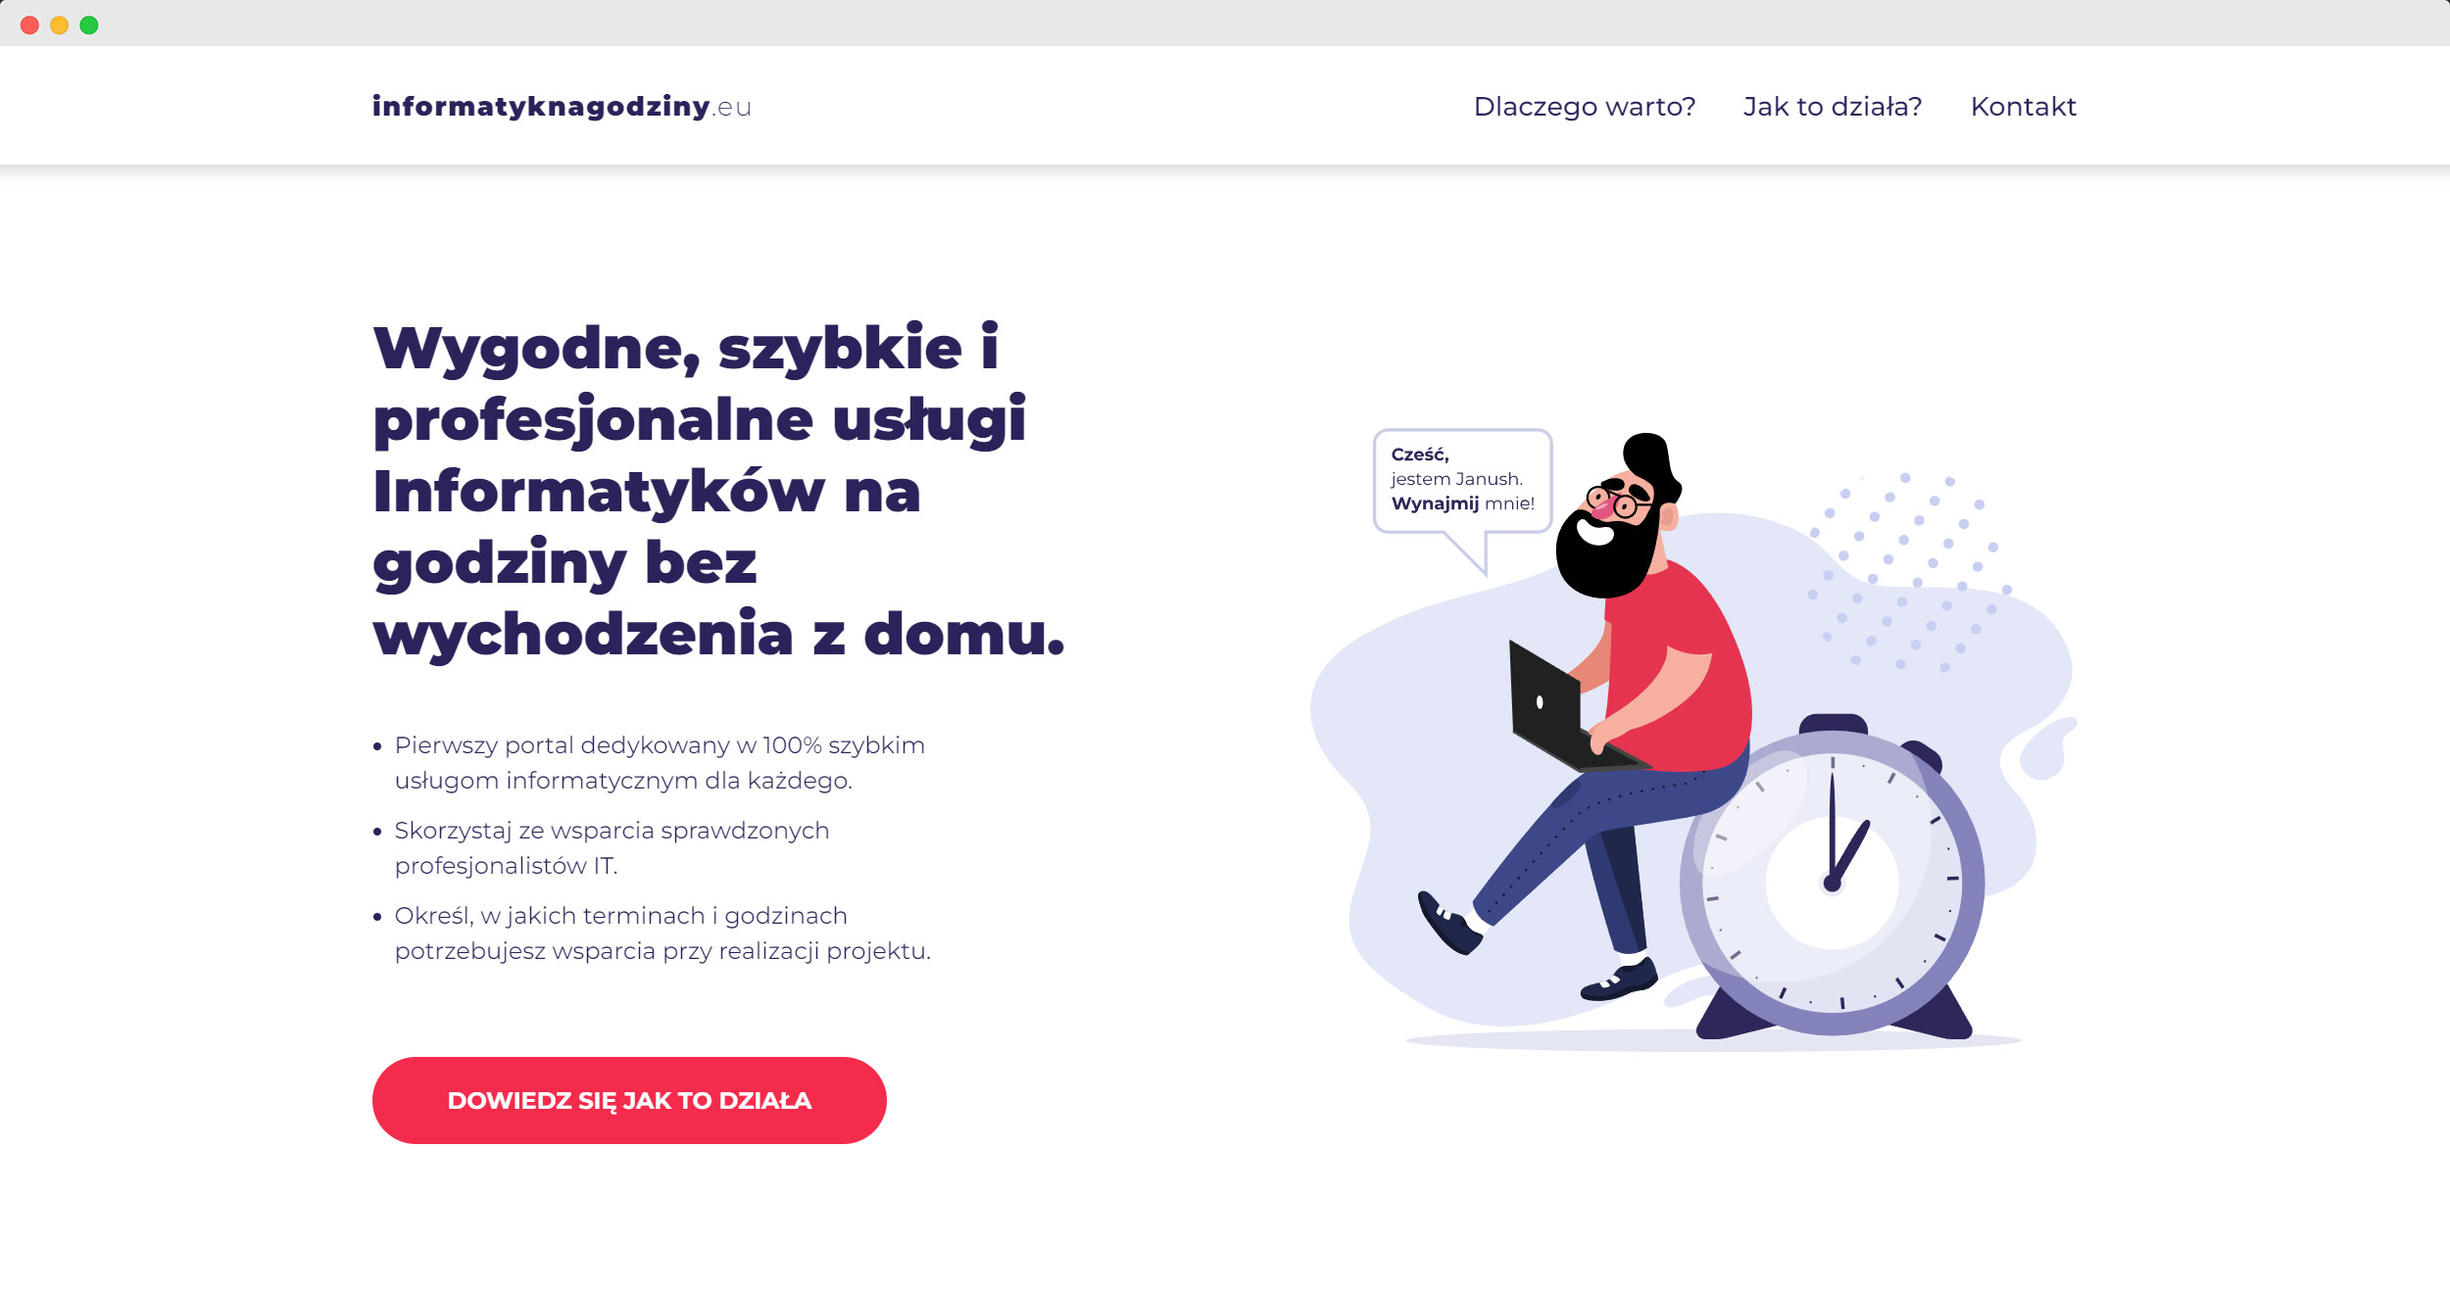
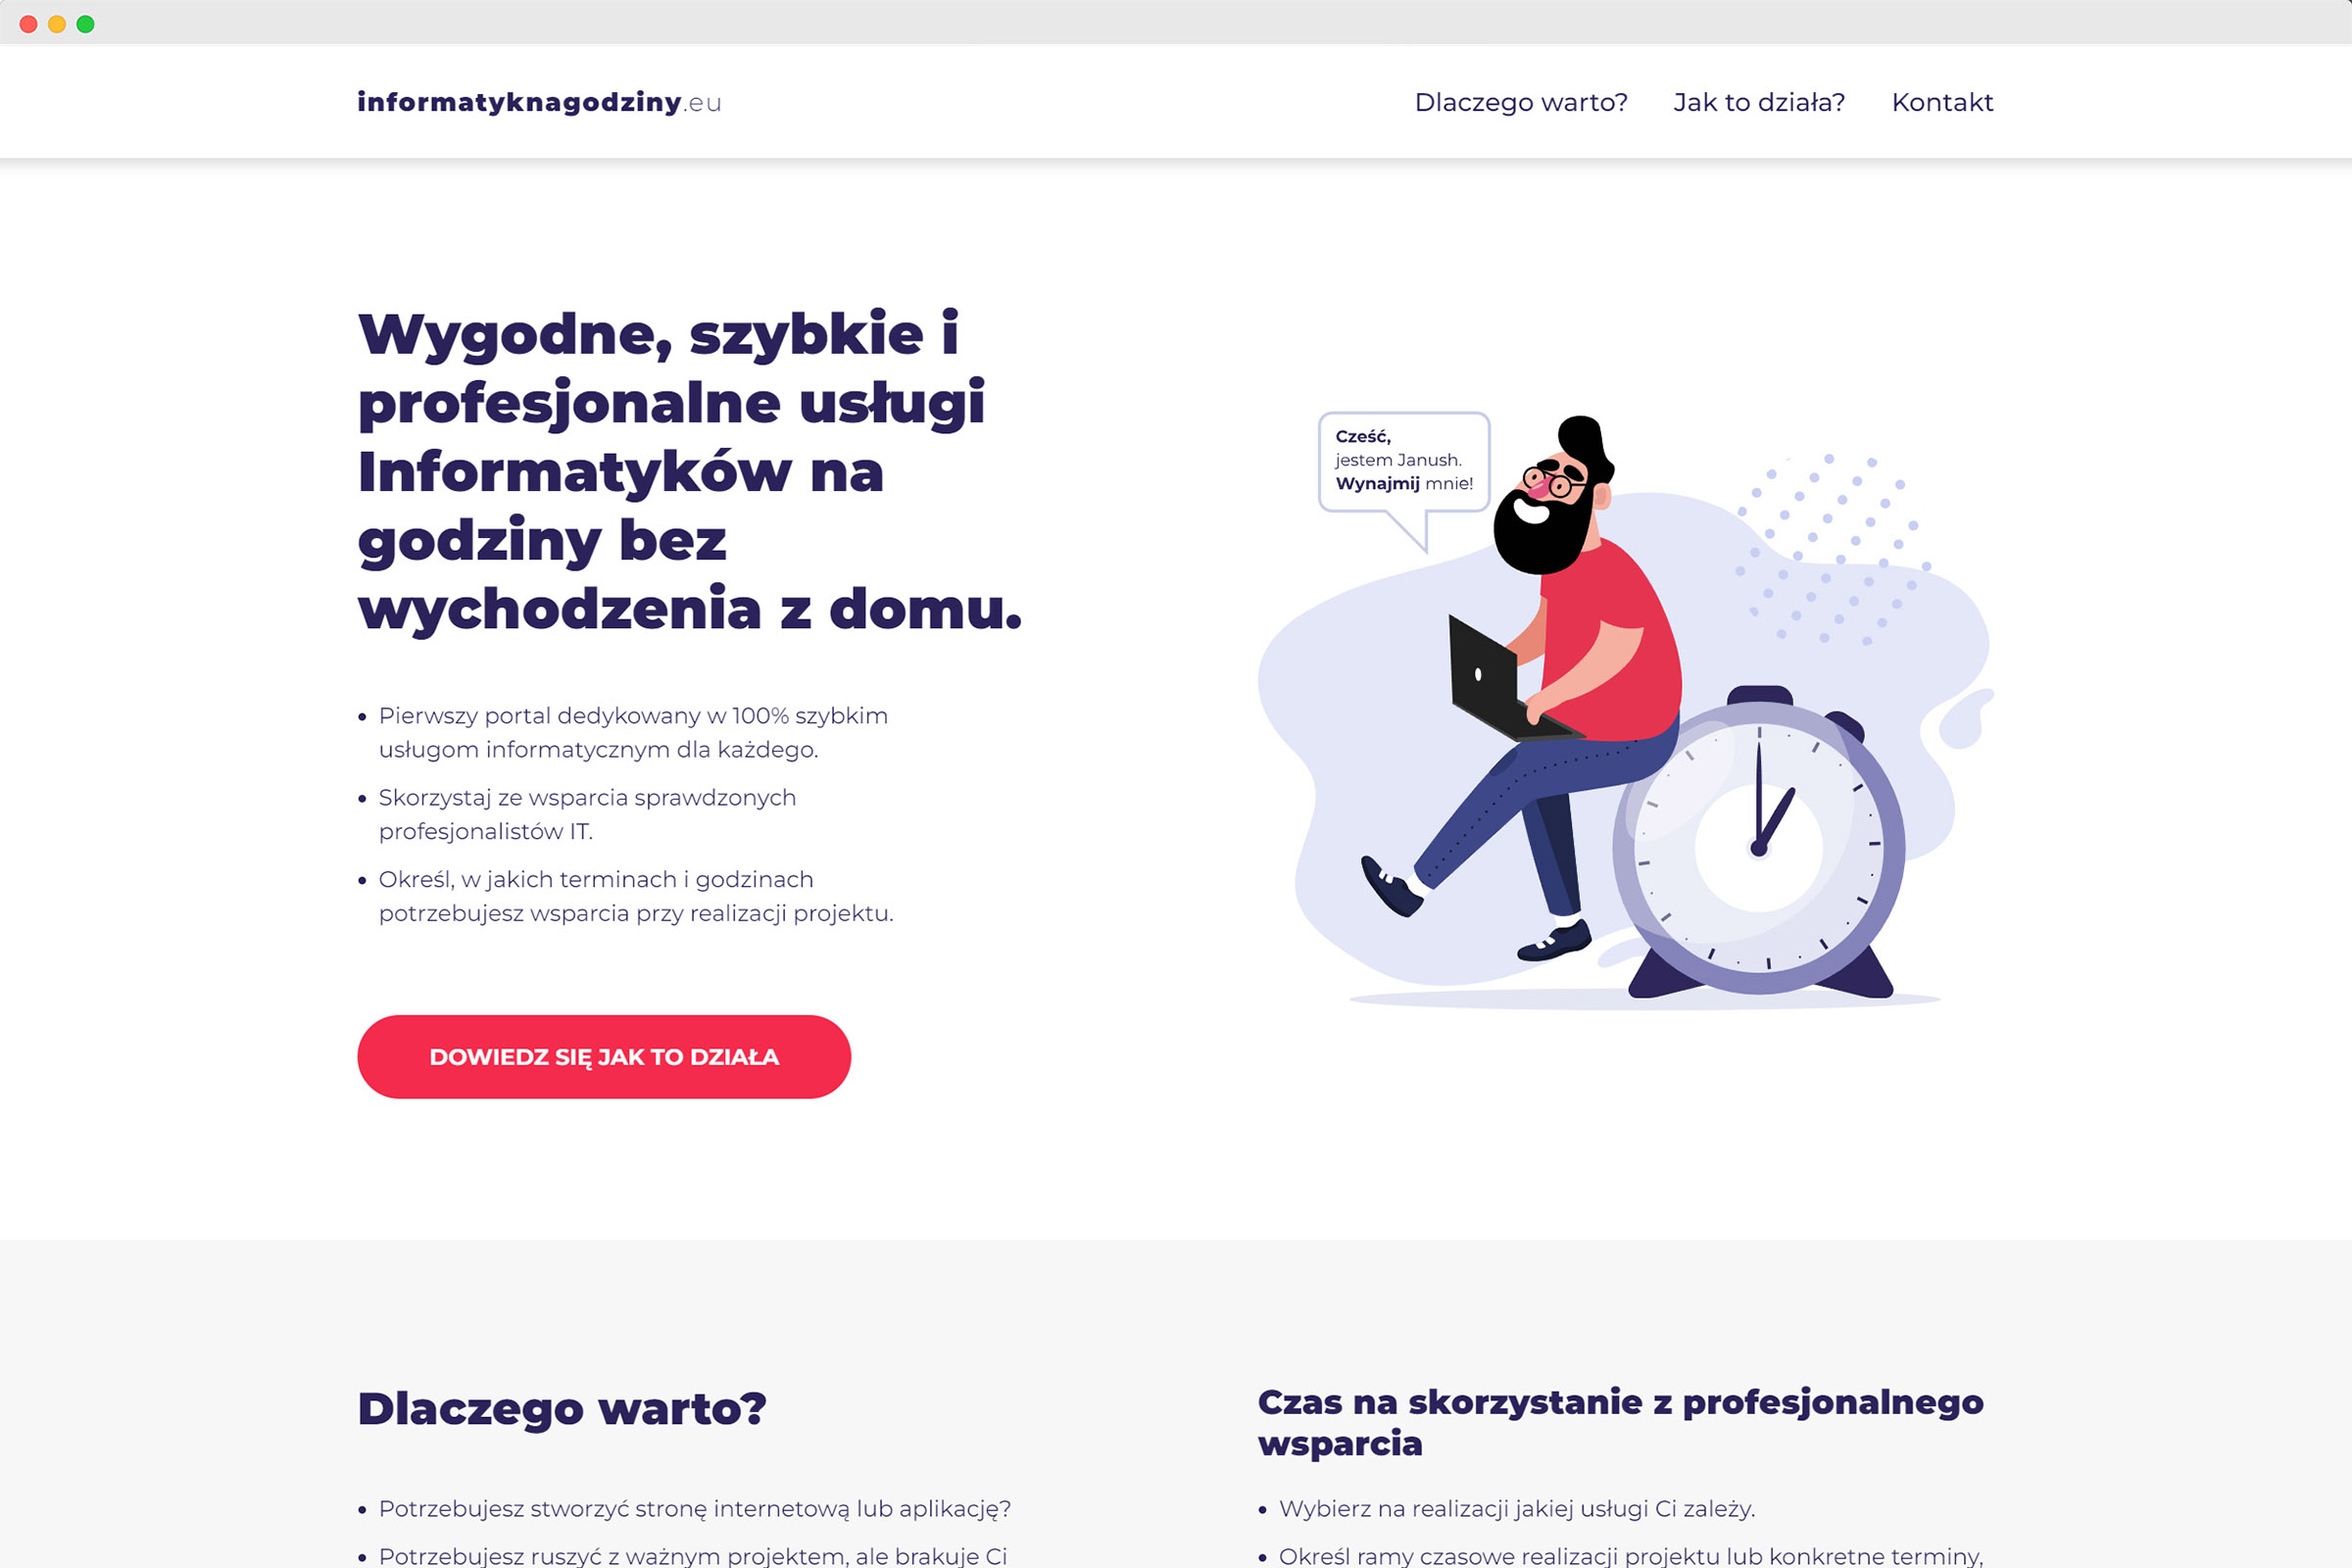
Update description & images of Informatyk & InspirationWay pages

diff --git a/src/utils/portfolioItems.js b/src/utils/portfolioItems.js
@@ -7,9 +7,10 @@ const portfolioItems = [
     type: "front-end",
     category: "Website",
     project: {
-      description: "Some description",
+      description:
+        "This is the website of the Inspiration Way Psychotherapy Cabinet.",
       details:
-        "Users are able to: search albums on list in real time by keywords, changeing from list view to grid view, add albums to favourites, view favourites, remove from favourites, view album details, go to album or artist page on Apple Music.",
+        "A personal website with a simple, modern design and clean layout built using React.js and Framer Motion to add subtle transitions and animations. It consists of several subpages that are built of reusable components. On the website you can find information about the services and offer and make an appointment for a therapy session.",
       technology: ["React.js", "SCSS", "Framer Motion"],
       tools: ["Vite", "Figma"],
       role: ["Web design", "Web development"],
@@ -48,9 +49,9 @@ const portfolioItems = [
     category: "Landing page",
     project: {
       description:
-        "Frontend Mentor is a platfrom where you can  improve your front-end coding skills by building real projects.",
+        "Website landing page for IT specialists offering their services and support.",
       details:
-        "They are my solutions to several challenges on this platform. Here you will find responsive landing pages and dashboards, simple card components and applications. The solutions are based only on graphic design and jpg files and have been built using various technologies. See the challenge for more details.",
+        "It is a single-page application that has a simple and clean design. The page is divided into several sections with different background colors.The first section contains a animated hero image and a call- to - action button.The next sections contains a brief description of the offered services and information about how the website works.The last section contains a contact information.",
       technology: [
         "React.js",
         "SCSS",
@@ -76,7 +77,7 @@ const portfolioItems = [
       description:
         "Todo App is a simple tool to help you organise everything. It’s a list of tasks you need to complete or things that you want to do. This projects is a solution to the Todo app challenge on Frontend Mentor.",
       details:
-        "The app is connected with Firebase and perform CRUD operations in the database. Users are able to: view the optimal layout for the app depending on their device's screen size, see hover states for all interactive elements on the page, toggle light and dark mode, add new todos to the list, mark todos as complete, update todos, delete todos from the list, filter by all/active/complete todos.",
+        "The app is connected with Firebase and perform CRUD operations in the database. Users are able to: view the optimal layout for the app depending on their device's screen size, see hover states for all interactive elements on the page, toggle light and dark mode, add new todos to the list, mark todos as complete, update todos, delete todos from the list, filter by all / active / complete todos.",
       technology: [
         "React.js",
         "Styled Components",
@@ -101,7 +102,7 @@ const portfolioItems = [
       description:
         "Frontend Mentor is a platfrom where you can  improve your front-end coding skills by building real projects.",
       details:
-        "They are my solutions to several challenges on this platform. Here you will find responsive landing pages and dashboards, simple card components and applications. The solutions are based only on graphic design and jpg files and have been built using various technologies. See the challenge for more details.",
+        "These are my solutions to several challenges on this platform. Here you will find responsive landing pages and dashboards, simple card components and applications. The solutions are based only on graphic designs and jpg files and have been built using various technologies. See the challenge for more information.",
       technology: [
         "React.js",
         "JavaScript",

diff --git a/src/work/Informatyk.jsx b/src/work/Informatyk.jsx
@@ -126,18 +126,23 @@ const Informatyk = ({ id, titlePrefix, titleSuffix }) => {
 
         <Wrapper>
           <Content>
-            <FullWidth
-              variants={container}
-              initial="hidden"
-              whileInView="show"
-              viewport={{ once: true }}>
-              <ImageItem
-                variants={child}
-                whileInView="show"
-                viewport={{ once: true }}>
-                <img src={images.inf_full} alt="Desktop" />
-              </ImageItem>
-            </FullWidth>
+            {[images.inf_full, images.inf_mobile_screens].map(
+              (image, index) => (
+                <FullWidth
+                  variants={container}
+                  initial="hidden"
+                  whileInView="show"
+                  viewport={{ once: true }}>
+                  <ImageItem
+                    key={index}
+                    variants={child}
+                    whileInView="show"
+                    viewport={{ once: true }}>
+                    <img src={image} alt="Informatyk na godziny" />
+                  </ImageItem>
+                </FullWidth>
+              )
+            )}
             {/* <Grid>
               {[images.inf_desktop_01, images.inf_desktop_02].map(
                 (image, index) => (

diff --git a/src/utils/images.js b/src/utils/images.js
@@ -36,6 +36,7 @@ import fm_timetracking from "../assets/work/fm/fm_timetracking.png";
 //Informatyk
 import inf_cover from "../assets/work/inf/inf_cover.jpg";
 import inf_full from "../assets/work/inf/inf_full.jpg";
+import inf_mobile_screens from "../assets/work/inf/inf_mobile_screens.jpg";
 import inf_desktop_hero from "../assets/work/inf/inf_desktop_hero.jpg";
 import inf_desktop_01 from "../assets/work/inf/inf_desktop_01.jpg";
 import inf_desktop_02 from "../assets/work/inf/inf_desktop_02.jpg";
@@ -81,6 +82,7 @@ const images = {
   inf_desktop_hero,
   inf_desktop_01,
   inf_desktop_02,
+  inf_mobile_screens,
 
   iw_cover,
   iw_desktop_home,

diff --git a/src/work/InspirationWay.jsx b/src/work/InspirationWay.jsx
@@ -121,12 +121,6 @@ const InspirationWay = ({ id, titlePrefix, titleSuffix }) => {
         <Divider />
         <Wrapper>
           <Content>
-            {/* <ScrollY>
-              <img src={images.browser} alt="" className="browser-tb" />
-              <div>
-                <img src={images.iw_desktop_home} alt="Home page" />
-              </div>
-            </ScrollY> */}
             <Grid
               variants={container}
               initial="hidden"
